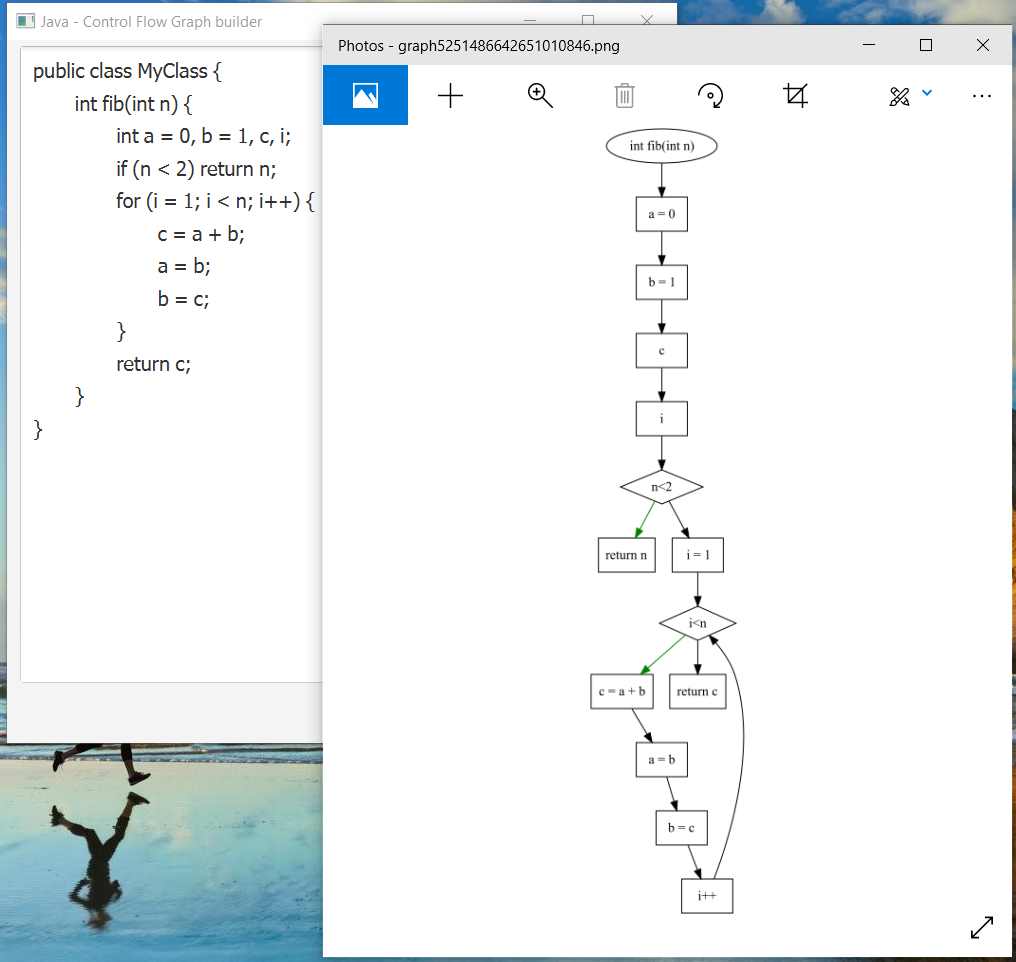
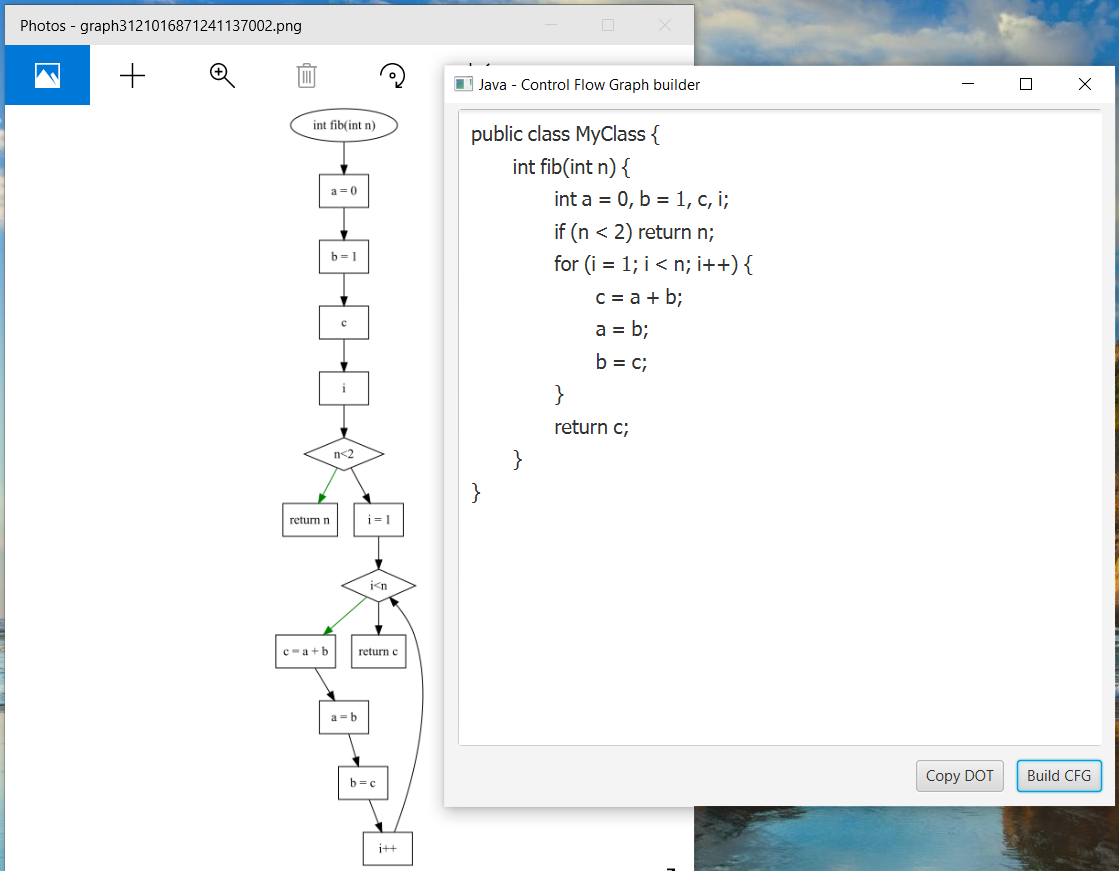
removed 'break' and 'continue' labels in cfg

diff --git a/src/main/java/com/example/lab1_javacfg/model/JavaCFGBuilder.java b/src/main/java/com/example/lab1_javacfg/model/JavaCFGBuilder.java
@@ -1,6 +1,5 @@
 package com.example.lab1_javacfg.model;
 
-import com.example.lab1_javacfg.model.cfg.CFGConnection;
 import com.example.lab1_javacfg.model.cfg.ControlFlowGraph;
 import com.example.lab1_javacfg.model.cfg.CFGNode;
 import com.github.javaparser.ParseProblemException;
@@ -42,26 +41,27 @@ public class JavaCFGBuilder {
     }
 
     private static ControlFlowGraph nestedBlockProcessing(List<Node> block) {
-        return getNestedBlockCFG(block, null, null);
+        return getNestedBlockCFG(block, null);
     }
 
-    private static ControlFlowGraph nestedBlockProcessing(List<Node> block, ArrayList<CFGNode> breakNodes, ArrayList<CFGNode> continueNodes) {
-        return getNestedBlockCFG(block, breakNodes, continueNodes);
+    private static ControlFlowGraph nestedBlockProcessing(List<Node> block, ControlFlowGraph superCFG) {
+        return getNestedBlockCFG(block, superCFG);
     }
 
-    private static ControlFlowGraph getNestedBlockCFG(List<Node> block, ArrayList<CFGNode> breakNodes, ArrayList<CFGNode> continueNodes) {
+    private static ControlFlowGraph getNestedBlockCFG(List<Node> block, ControlFlowGraph superCFG) {
         ControlFlowGraph cfg = new ControlFlowGraph();
+        boolean break_or_continue = false;
         for (Node node: block) {
+            if (break_or_continue) break;
             switch (node.getClass().getSimpleName()) {
-                case "BlockStmt" -> {
+                case "BlockStmt" ->
                     cfg.plus(nestedBlockProcessing(node.getChildNodes()));
-                }
                 case "ExpressionStmt" ->
                     cfg.plus(expressionProcessing(node.getChildNodes()));
                 case "UnaryExpr" ->
                     cfg.plus(expressionProcessing(new ArrayList<>(List.of(node))));
                 case "IfStmt" ->
-                    cfg.plus(ifProcessing((IfStmt) node, breakNodes, continueNodes));
+                    cfg.plus(ifProcessing((IfStmt) node));
                 case "ReturnStmt" ->
                     cfg.plus(returnProcessing((ReturnStmt) node));
                 case "ForStmt" ->
@@ -69,20 +69,35 @@ public class JavaCFGBuilder {
                 case "WhileStmt" ->
                     cfg.plus(whileProcessing((WhileStmt) node));
                 case "BreakStmt" -> {
-                    ControlFlowGraph breakCFG = new ControlFlowGraph();
-                    CFGNode breakNode = breakCFG.addNode("break", "box");
-                    if (cfg.plus(breakCFG) && breakNodes != null)
-                        breakNodes.add(breakNode);
+                    if (superCFG != null) {
+                        CFGNode previousNode = cfg.getLastNode();
+                        if (previousNode == null) { // example: while (a == 1) { break; }
+                            previousNode = superCFG.getNodes().get(0);
+                            superCFG.addBreakNode(previousNode);
+                            superCFG.removeLeave(previousNode);
+                        } else { // example: while (a == 1) { b = 2; break; }
+                            cfg.addBreakNode(previousNode);
+                            cfg.clearLeaves();
+                        }
+                        break_or_continue = true;
+                    }
                 }
                 case "ContinueStmt" -> {
-                    ControlFlowGraph continueCFG = new ControlFlowGraph();
-                    CFGNode continueNode = continueCFG.addNode("continue", "box");
-                    if (cfg.plus(continueCFG) && continueNodes != null)
-                        continueNodes.add(continueNode);
+                    if (superCFG != null) {
+                        CFGNode previousNode = cfg.getLastNode();
+                        if (previousNode == null) { // example: while (a == 1) { continue; }
+                            previousNode = superCFG.getNodes().get(0);
+                            superCFG.addContinueNode(previousNode);
+                            superCFG.removeLeave(previousNode);
+                        } else { // example: while (a == 1) { b = 2; continue; }
+                            cfg.addContinueNode(previousNode);
+                            cfg.clearLeaves();
+                        }
+                        break_or_continue = true;
+                    }
                 }
-                case "SwitchStmt" -> {
+                case "SwitchStmt" ->
                     cfg.plus(switchProcessing((SwitchStmt) node));
-                }
             }
         }
         return cfg;
@@ -100,7 +115,7 @@ public class JavaCFGBuilder {
                         cfg.addConnection(nodes.get(i), nodes.get(i + 1), "");
                     cfg.addLeave(nodes.get(nodes.size() - 1));
                 }
-                case "AssignExpr", "UnaryExpr" -> {
+                case "AssignExpr", "UnaryExpr", "MethodCallExpr" -> {
                     ControlFlowGraph nestedCFG = new ControlFlowGraph();
                     CFGNode node = nestedCFG.addNode(item.toString(), "box");
                     nestedCFG.addLeave(node);
@@ -111,8 +126,7 @@ public class JavaCFGBuilder {
         return cfg;
     }
 
-    private static ControlFlowGraph ifProcessing(
-            IfStmt ifStmt, ArrayList<CFGNode> breakNodes, ArrayList<CFGNode> continueNodes) {
+    private static ControlFlowGraph ifProcessing(IfStmt ifStmt) {
         ControlFlowGraph cfg = new ControlFlowGraph();
         String condition = ifStmt.getCondition().toString();
         CFGNode conditionNode = cfg.addNode(condition, "diamond");
@@ -136,21 +150,19 @@ public class JavaCFGBuilder {
             elseBlock = null;
         }
 
-        ArrayList<CFGNode> elseBlockLeaves = new ArrayList<>();
-        if (elseBlock == null) {
-            elseBlockLeaves.add(conditionNode);
-        } else {
-            ControlFlowGraph elseBlockCFG = nestedBlockProcessing(elseBlock, breakNodes, continueNodes);
-            cfg.plus(elseBlockCFG, "red");
-            elseBlockLeaves = new ArrayList<>(cfg.getLeaves());
+        ControlFlowGraph thenBlockCFG = nestedBlockProcessing(thenBlock, cfg);
+        cfg.plus(thenBlockCFG, "green");
 
+        if (elseBlock == null) {
+            cfg.addLeave(conditionNode);
+        } else { // there is else-branch
+            ArrayList<CFGNode> thenBlockLeaves = new ArrayList<>(cfg.getLeaves());
             cfg.clearLeaves();
             cfg.addLeave(conditionNode);
+            ControlFlowGraph elseBlockCFG = nestedBlockProcessing(elseBlock, cfg);
+            cfg.plus(elseBlockCFG, "red");
+            cfg.addLeaves(thenBlockLeaves);
         }
-
-        ControlFlowGraph thenBlockCFG = nestedBlockProcessing(thenBlock, breakNodes, continueNodes);
-        cfg.plus(thenBlockCFG, "green");
-        cfg.addLeaves(elseBlockLeaves);
 
         return cfg;
     }
@@ -186,44 +198,25 @@ public class JavaCFGBuilder {
             block.add(forStmt.getBody());
         }
 
-        ArrayList<CFGNode> breakNodes = new ArrayList<>();
-        ArrayList<CFGNode> continueNodes = new ArrayList<>();
-
-        loopBodyCFG.plus(nestedBlockProcessing(block, breakNodes, continueNodes), "green");
-
-        // finding "continue"-leaves
-        // example: for(int i=1;i<5;i++) {continue;}
-        if (!loopBodyCFG.getNodes().isEmpty() && loopBodyCFG.getLeaves().isEmpty()) {
-            for (CFGNode node: loopBodyCFG.getNodes()) {
-                if (node.getLabel().equals("continue")) {
-                    boolean isLeave = true;
-                    for (CFGConnection connection: loopBodyCFG.getConnections()) {
-                        if (connection.getFirst().equals(node)) {
-                            isLeave = false;
-                            break;
-                        }
-                    }
-                    if (isLeave) {
-                        loopBodyCFG.addLeave(node);
-                        continueNodes.remove(node);
-                    }
-                }
-            }
-        }
+        loopBodyCFG.plus(nestedBlockProcessing(block, loopBodyCFG), "green");
 
         // FOR-update block
         ControlFlowGraph loopUpdateCFG = expressionProcessing(
                 new ArrayList(Arrays.asList(forStmt.getUpdate().toArray())));
 
         loopBodyCFG.plus(loopUpdateCFG);
+        if (loopBodyCFG.getNodes().isEmpty()) return loopCFG;
 
+        // looping
         for(CFGNode node: loopBodyCFG.getLeaves()) {
             loopBodyCFG.addConnection(node, loopBodyCFG.getNodes().get(0), "");
         }
 
         loopBodyCFG.clearLeaves();
-        if (compareNode != null) loopBodyCFG.addLeave(compareNode);
-        loopBodyCFG.addLeaves(breakNodes); // "break" processing
+        loopBodyCFG.addLeaves(loopBodyCFG.getBreakNodes()); // "break" processing
+        if (compareNode != null)
+            if (!loopBodyCFG.getLeaves().contains(compareNode))
+                    loopBodyCFG.addLeave(compareNode);
 
         // "continue" processing
         CFGNode loopStartWith;
@@ -232,7 +225,7 @@ public class JavaCFGBuilder {
         } else {
             loopStartWith = loopUpdateCFG.getNodes().get(0);
         }
-        for(CFGNode node: continueNodes) {
+        for(CFGNode node: loopBodyCFG.getContinueNodes()) {
             loopBodyCFG.addConnection(node, loopStartWith, "");
         }
 
@@ -253,22 +246,23 @@ public class JavaCFGBuilder {
             block.add(whileStmt.getBody());
         }
 
-        ArrayList<CFGNode> breakNodes = new ArrayList<>();
-        ArrayList<CFGNode> continueNodes = new ArrayList<>();
+        cfg.plus(nestedBlockProcessing(block, cfg), "green");
 
-        cfg.plus(nestedBlockProcessing(block, breakNodes, continueNodes), "green");
-
+        // looping
         for(CFGNode node: cfg.getLeaves()) {
             cfg.addConnection(node, cfg.getNodes().get(0), "");
         }
-
         cfg.clearLeaves();
-        cfg.addLeave(conditionNode);
-        cfg.addLeaves(breakNodes);
 
-        for(CFGNode node: continueNodes) {
+        for(CFGNode node: cfg.getContinueNodes()) {
             cfg.addConnection(node, cfg.getNodes().get(0), "");
         }
+        cfg.clearContinueNodes();
+
+        cfg.addLeaves(cfg.getBreakNodes());
+        cfg.clearBreakNodes();
+        if (!cfg.getLeaves().contains(conditionNode))
+            cfg.addLeave(conditionNode);
 
         return cfg;
     }

diff --git a/src/main/java/com/example/lab1_javacfg/model/cfg/ControlFlowGraph.java b/src/main/java/com/example/lab1_javacfg/model/cfg/ControlFlowGraph.java
@@ -10,6 +10,8 @@ public class ControlFlowGraph {
     private final ArrayList<CFGConnection> connections = new ArrayList<>();
 
     private final ArrayList<CFGNode> leaves = new ArrayList<>();
+    private final ArrayList<CFGNode> breakNodes = new ArrayList<>();
+    private final ArrayList<CFGNode> continueNodes = new ArrayList<>();
 
     public ControlFlowGraph() {}
 
@@ -17,7 +19,18 @@ public class ControlFlowGraph {
 
     public ArrayList<CFGNode> getNodes() { return nodes; }
 
+    public CFGNode getLastNode() {
+        if (nodes.isEmpty())
+            return null;
+        else
+            return nodes.get(nodes.size() - 1);
+    }
+
     public ArrayList<CFGConnection> getConnections() { return connections; }
+
+    public ArrayList<CFGNode> getBreakNodes() { return breakNodes; }
+
+    public ArrayList<CFGNode> getContinueNodes() { return continueNodes; }
 
     public CFGNode addNode(String label, String shape) {
        CFGNode newNode = new CFGNode(++nodeCounter, label, shape);
@@ -46,28 +59,41 @@ public class ControlFlowGraph {
 
     public void clearLeaves() { this.leaves.clear(); }
 
+    public void removeLeave(CFGNode node) { this.leaves.remove(node); }
+
     public void addLeave(CFGNode node) { leaves.add(node); }
 
     public void addLeaves(ArrayList<CFGNode> nodes) { leaves.addAll(nodes); }
+
+    public void clearBreakNodes() { this.breakNodes.clear(); }
+
+    public void addBreakNode(CFGNode node) { breakNodes.add(node); }
+
+    public void addBreakNodes(ArrayList<CFGNode> nodes) { breakNodes.addAll(nodes); }
+
+    public void clearContinueNodes() { this.continueNodes.clear(); }
+
+    public void addContinueNode(CFGNode node) { continueNodes.add(node); }
+
+    public void addContinueNodes(ArrayList<CFGNode> nodes) { continueNodes.addAll(nodes); }
 
     private void updateNodeIndexes(int startWith) {
         for (CFGNode node: nodes)
             node.setIndex(startWith++);
     }
 
-    public boolean plus(ControlFlowGraph other) {
-        return plusCFG(other, "black");
+    public void plus(ControlFlowGraph other) {
+        plusCFG(other, "black");
     }
 
-    public boolean plus(ControlFlowGraph other, String edgeColor) {
-        return plusCFG(other, edgeColor);
+    public void plus(ControlFlowGraph other, String edgeColor) {
+        plusCFG(other, edgeColor);
     }
 
-    private boolean plusCFG(ControlFlowGraph other, String edgeColor) {
-        // there are nodes, but no leaves (example: {a=1; return; b=2;} )
-        if (!this.nodes.isEmpty() && this.leaves.isEmpty()) return false;
-        // nothing to connect
-        if (other.getNodes().isEmpty()) return false;
+    private void plusCFG(ControlFlowGraph other, String edgeColor) {
+        if (!this.getNodes().isEmpty() && this.getLeaves().isEmpty() &&
+                this.getContinueNodes().isEmpty()) return; // no leaves
+        if (other.getNodes().isEmpty()) return; // nothing to connect (no nodes)
 
         other.updateNodeIndexes(this.nodeCounter + 1);
         this.nodes.addAll(other.getNodes());
@@ -76,7 +102,8 @@ public class ControlFlowGraph {
             this.addConnection(leave, this.nodes.get(this.nodeCounter), edgeColor);
         this.nodeCounter += other.getNodeCounter();
         this.clearLeaves();
-        this.getLeaves().addAll(other.getLeaves());
-        return true;
+        this.addLeaves(other.getLeaves());
+        this.addBreakNodes(other.getBreakNodes());
+        this.addContinueNodes(other.getContinueNodes());
     }
 }

diff --git a/src/main/java/com/example/lab1_javacfg/model/JavaCFGTests.java b/src/main/java/com/example/lab1_javacfg/model/JavaCFGTests.java
@@ -41,14 +41,14 @@ public class JavaCFGTests {
                             if (q)
                                 continue;
                             else
-                                value = otherFunction();
+                                otherFunction();
                 		}
                     }
                 }
                 """);
 
         AssertJUnit.assertEquals(
-                "digraph{1[label=\"int fib(int n)\",shape=\"oval\"]2[label=\"i < 10\",shape=\"diamond\"]3[label=\"i == 5\",shape=\"diamond\"]4[label=\"break\",shape=\"box\"]5[label=\"i++\",shape=\"box\"]6[label=\"q\",shape=\"diamond\"]7[label=\"value = otherFunction()\",shape=\"box\"]8[label=\"continue\",shape=\"box\"]3->4[color=\"red\"]3->5[color=\"green\"]2->3[color=\"green\"]5->2[color=\"\"]6->7[color=\"red\"]6->8[color=\"green\"]2->6[color=\"black\"]4->6[color=\"black\"]7->2[color=\"\"]8->2[color=\"\"]1->2[color=\"black\"]}",
+                "digraph{1[label=\"int fib(int n)\",shape=\"oval\"]2[label=\"i < 10\",shape=\"diamond\"]3[label=\"i == 5\",shape=\"diamond\"]4[label=\"i++\",shape=\"box\"]5[label=\"q\",shape=\"diamond\"]6[label=\"otherFunction()\",shape=\"box\"]3->4[color=\"green\"]2->3[color=\"green\"]4->2[color=\"\"]5->6[color=\"red\"]3->5[color=\"black\"]2->5[color=\"black\"]6->2[color=\"\"]5->2[color=\"\"]1->2[color=\"black\"]}",
                 cfgDescription);
     }
 
@@ -78,7 +78,7 @@ public class JavaCFGTests {
                 """);
 
         AssertJUnit.assertEquals(
-                "digraph{1[label=\"int myFun(int n)\",shape=\"oval\"]2[label=\"i = 1\",shape=\"box\"]3[label=\"j = 0\",shape=\"box\"]4[label=\"i < 10\",shape=\"diamond\"]5[label=\"b == 5\",shape=\"diamond\"]6[label=\"m = six(x)\",shape=\"box\"]7[label=\"break\",shape=\"box\"]8[label=\"q = 5\",shape=\"box\"]9[label=\"w = 6.6\",shape=\"box\"]10[label=\"e = \\\"rty\\\"\",shape=\"box\"]11[label=\"test == 8\",shape=\"diamond\"]12[label=\"continue\",shape=\"box\"]13[label=\"break\",shape=\"box\"]14[label=\"i++\",shape=\"box\"]15[label=\"j--\",shape=\"box\"]16[label=\"end = true\",shape=\"box\"]2->3[color=\"\"]6->7[color=\"black\"]5->6[color=\"red\"]8->9[color=\"black\"]9->10[color=\"black\"]5->8[color=\"green\"]11->12[color=\"red\"]11->13[color=\"green\"]10->11[color=\"black\"]4->5[color=\"green\"]14->15[color=\"black\"]12->14[color=\"black\"]15->4[color=\"\"]3->4[color=\"black\"]4->16[color=\"black\"]7->16[color=\"black\"]13->16[color=\"black\"]1->2[color=\"black\"]}",
+                "digraph{1[label=\"int myFun(int n)\",shape=\"oval\"]2[label=\"i = 1\",shape=\"box\"]3[label=\"j = 0\",shape=\"box\"]4[label=\"i < 10\",shape=\"diamond\"]5[label=\"b == 5\",shape=\"diamond\"]6[label=\"q = 5\",shape=\"box\"]7[label=\"w = 6.6\",shape=\"box\"]8[label=\"e = \\\"rty\\\"\",shape=\"box\"]9[label=\"m = six(x)\",shape=\"box\"]10[label=\"test == 8\",shape=\"diamond\"]11[label=\"i++\",shape=\"box\"]12[label=\"j--\",shape=\"box\"]13[label=\"end = true\",shape=\"box\"]2->3[color=\"\"]6->7[color=\"black\"]7->8[color=\"black\"]5->6[color=\"green\"]5->9[color=\"red\"]8->10[color=\"black\"]4->5[color=\"green\"]11->12[color=\"black\"]12->4[color=\"\"]10->11[color=\"\"]3->4[color=\"black\"]9->13[color=\"black\"]10->13[color=\"black\"]4->13[color=\"black\"]1->2[color=\"black\"]}",
                 cfgDescription);
     }
 

diff --git a/src/main/java/com/example/lab1_javacfg/model/cfg/CFGNode.java b/src/main/java/com/example/lab1_javacfg/model/cfg/CFGNode.java
@@ -1,7 +1,5 @@
 package com.example.lab1_javacfg.model.cfg;
 
-import java.util.Objects;
-
 public class CFGNode {
     private int index;
     private final String label, shape;
@@ -14,17 +12,7 @@ public class CFGNode {
 
     public int getIndex() { return index; }
 
-    public String getLabel() { return label; }
-
     public void setIndex(int index) { this.index = index; }
-
-    @Override
-    public boolean equals(Object o) {
-        if (this == o) return true;
-        if (o == null || getClass() != o.getClass()) return false;
-        CFGNode graphNode = (CFGNode) o;
-        return Objects.equals(index, graphNode.getIndex());
-    }
 
     @Override
     public String toString() {

diff --git a/src/main/java/com/example/lab1_javacfg/model/cfg/CFGConnection.java b/src/main/java/com/example/lab1_javacfg/model/cfg/CFGConnection.java
@@ -11,12 +11,9 @@ public class CFGConnection {
         this.edgeColor = edgeColor;
     }
 
-    public CFGNode getFirst() { return first; }
-
-    public CFGNode getSecond() { return second; }
-
     @Override
     public String toString() {
         return first.getIndex() + "->" + second.getIndex() + "[color=\"" + edgeColor + "\"]";
     }
+
 }
